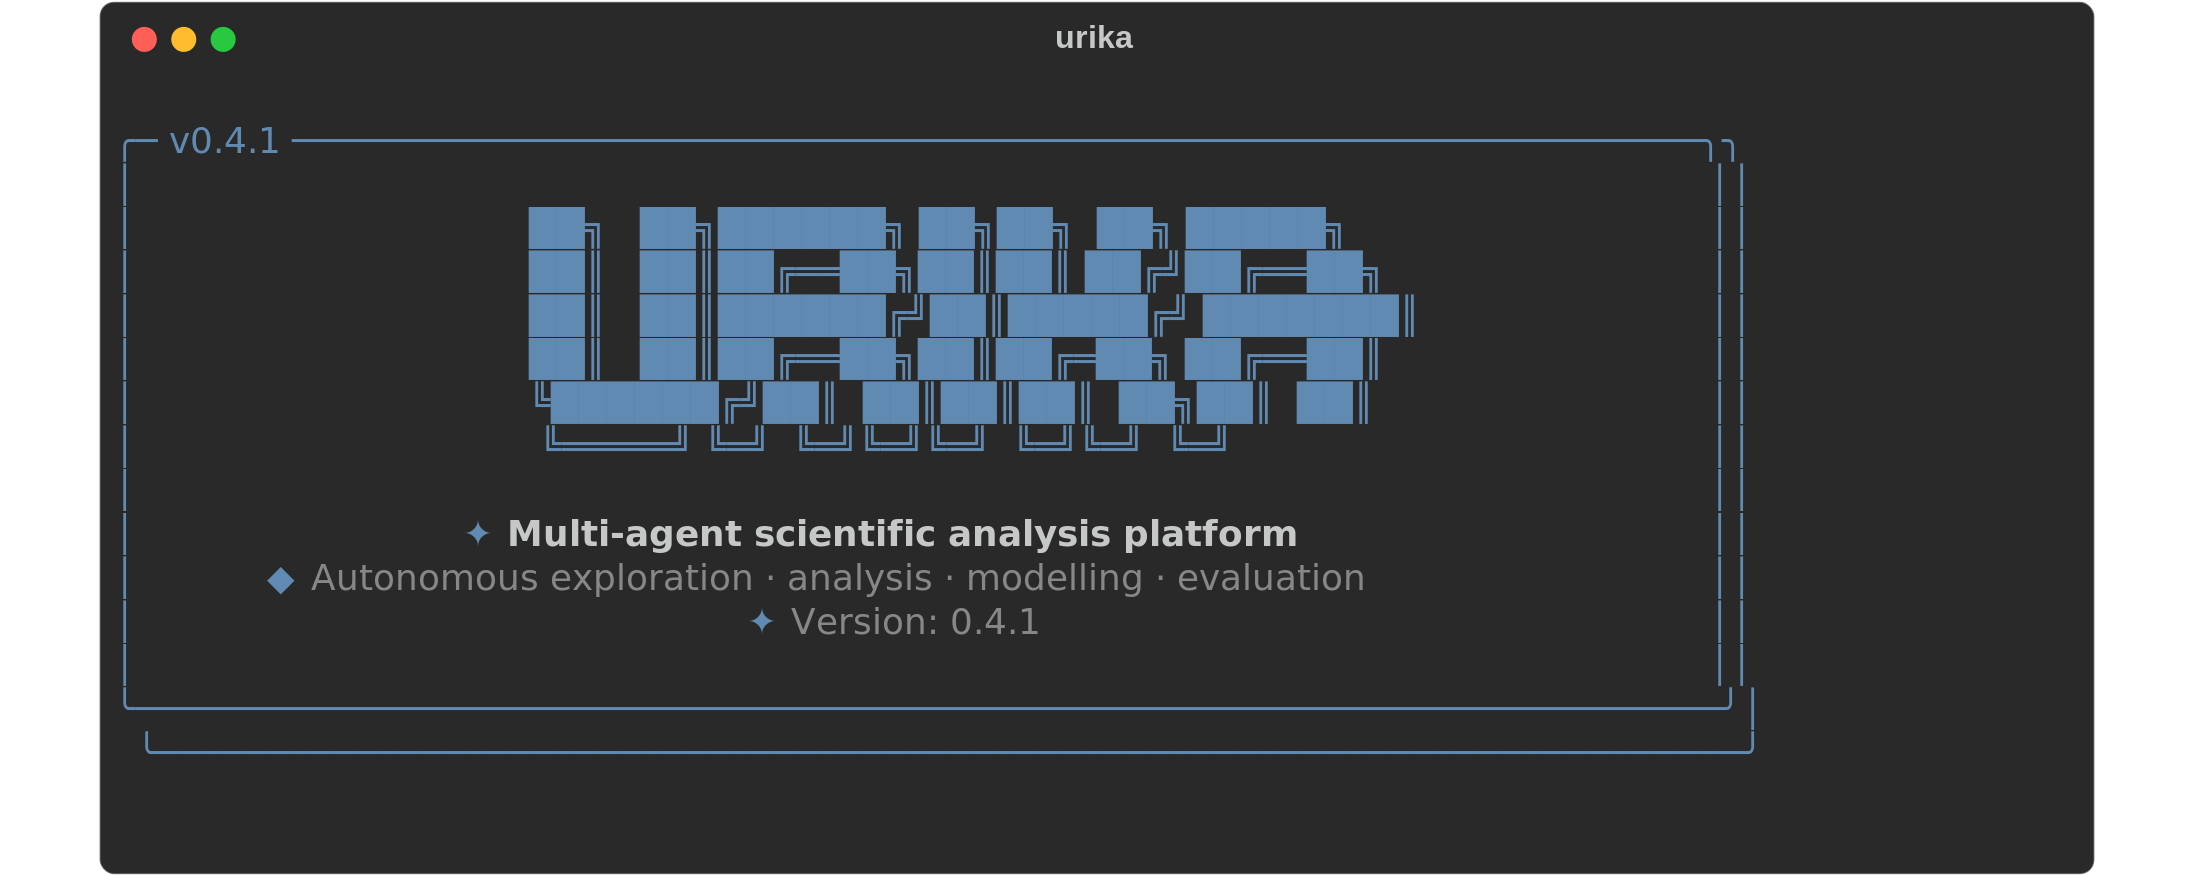
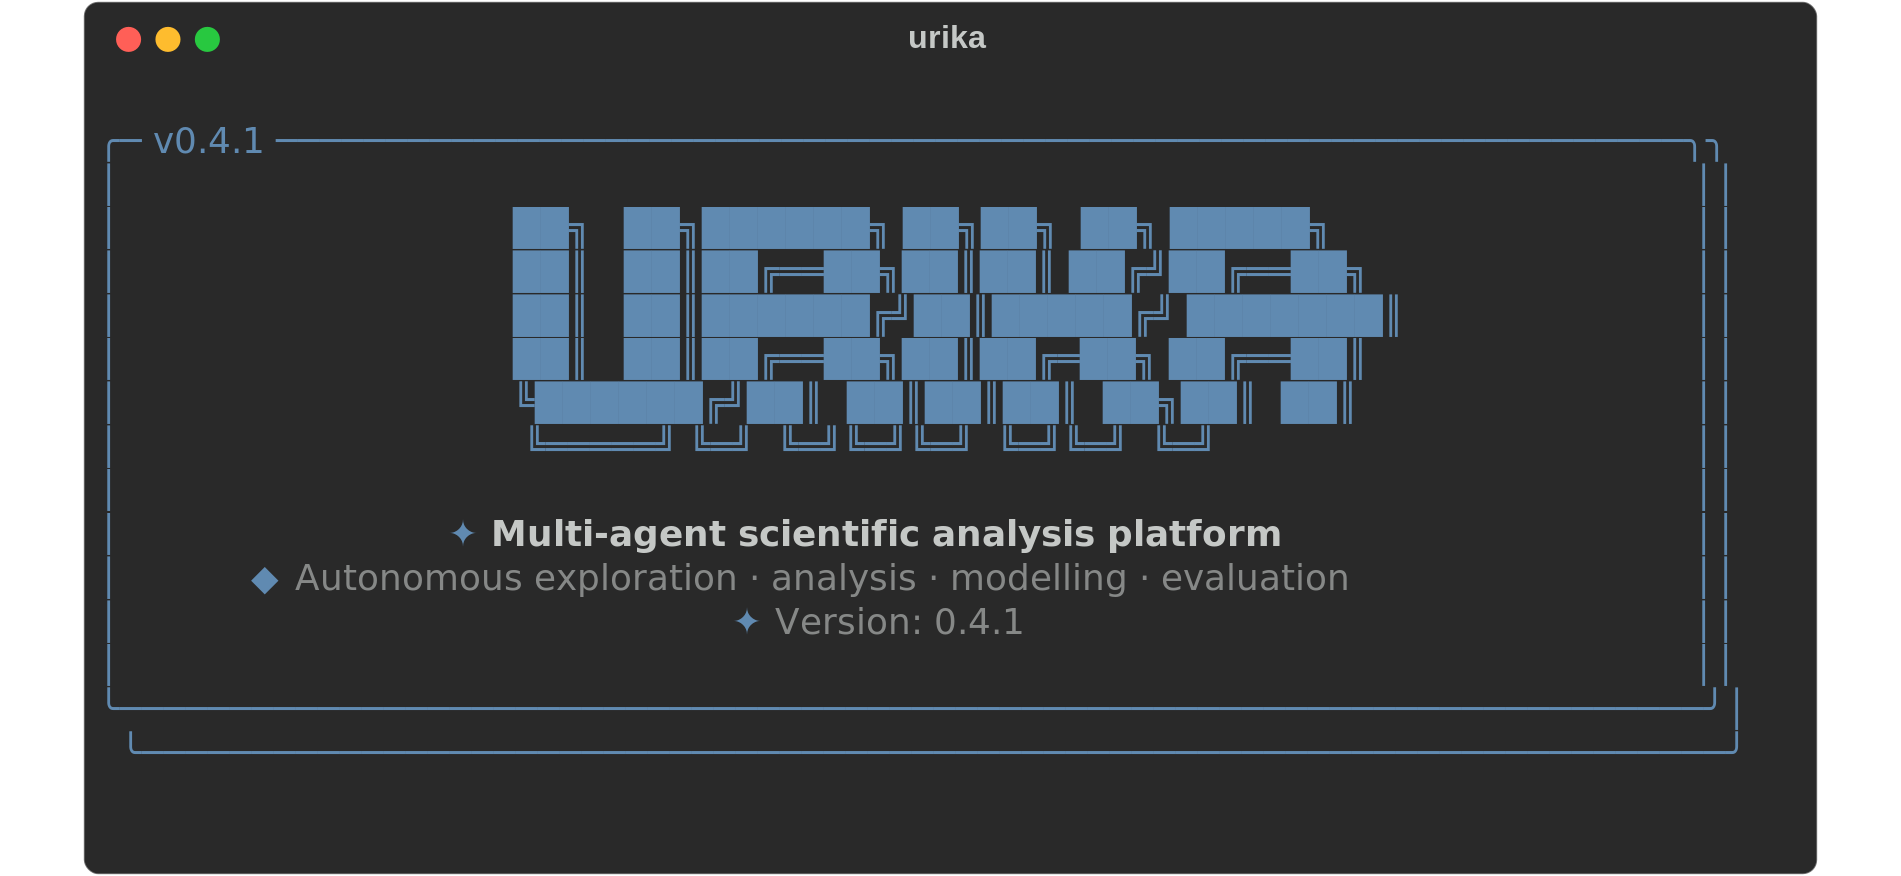
release: wire header regen into release-to-main + tighten width
Two related changes:

1. release-to-main.sh now auto-regenerates docs/assets/header.{svg,
   png} as a pre-step (using dev/scripts/update-header.py), commits
   the regen on dev with 'release: regenerate header for vX.Y.Z',
   and pushes origin/dev before falling through to the main sync.
   No more manual header step at release time.

2. Hardened the dev-only purge list with belt-and-braces explicit
   removals for every dev-only or scratch path that could leak:
   CLAUDE.md (internal project guide), tests/ (kept dev-only by
   convention), .claude/ / .vscode/ / .idea/ / .worktrees/, the
   pytest / ruff / mypy caches, and dist/ / build/. The allowlist
   approach already meant we didn't *check out* these — but if any
   past commit left them on main or a future contributor adds a
   bad checkout line, the explicit rm now scrubs them every
   release. Audited current main: it is already clean
   (no CLAUDE.md, no tests/, no .claude/), so this is preventative.

3. Added a tripwire that aborts the release if any dev-marker path
   slips through the staging area despite both safety nets — the
   denylist gets one more entry instead of silently leaking.

4. update-header.py: tightened the Rich Console width from 90 to
   78 cols. print_header itself caps the box at ~76 chars wide;
   width=90 left a 14-col empty padding band on the right of the
   PNG. 78 hugs the box neatly with 1-col breathing room each side.
   Header regenerated to reflect the tighter framing.

diff --git a/dev/scripts/update-header.py b/dev/scripts/update-header.py
@@ -227,9 +227,13 @@ def _render_svg(version: str) -> str:
     ansi = _capture_header_ansi(version)
     text = _ansi_to_rich_text(ansi)
 
+    # Width 78 cols: print_header itself caps the box at ~76 chars
+    # wide (max_width=76 in cli_display.print_header). 78 leaves a
+    # 1-col breathing room on each side of the box without the
+    # 14-col right-side padding gap that width=90 produced.
     console = Console(
         record=True,
-        width=90,
+        width=78,
         legacy_windows=False,
         color_system="truecolor",
         file=io.StringIO(),  # discard live output
